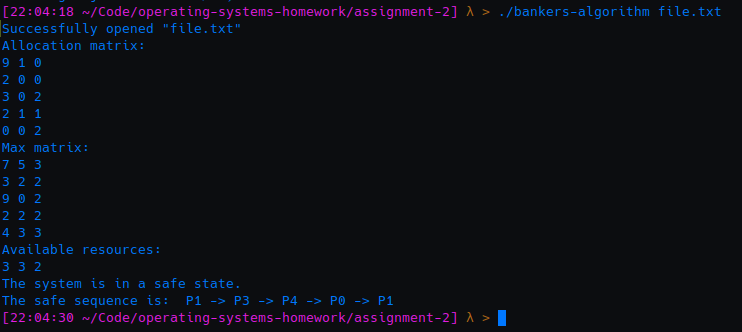
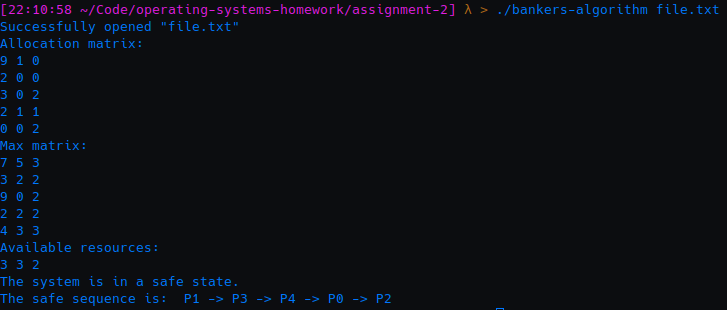
Fixed last issue

Changed region(s): [[0.0, 0.0, 0.9986, 1.0]]

diff --git a/assignment-2/bankers-algorithm.c b/assignment-2/bankers-algorithm.c
@@ -132,7 +132,7 @@ bool safety() {
                 work[j] = work[j] + allocation[i][j];
                 finished[i] = true;
             }*/
-            if(finished[i] == false) {
+            if(finished[j] == false) {
                 flag = false; 
                 for(int k = 0; k < n_Resources; k++) {
                     if(need[j][k] > available[k]) {
